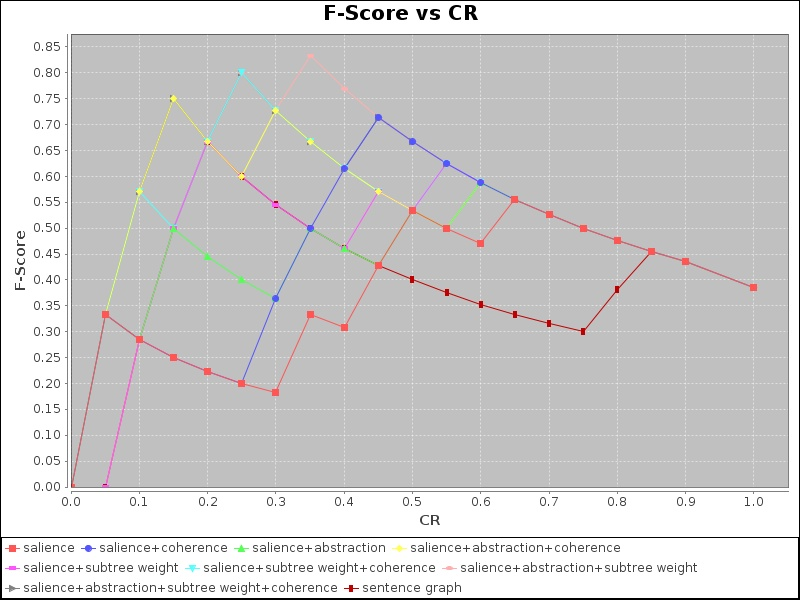
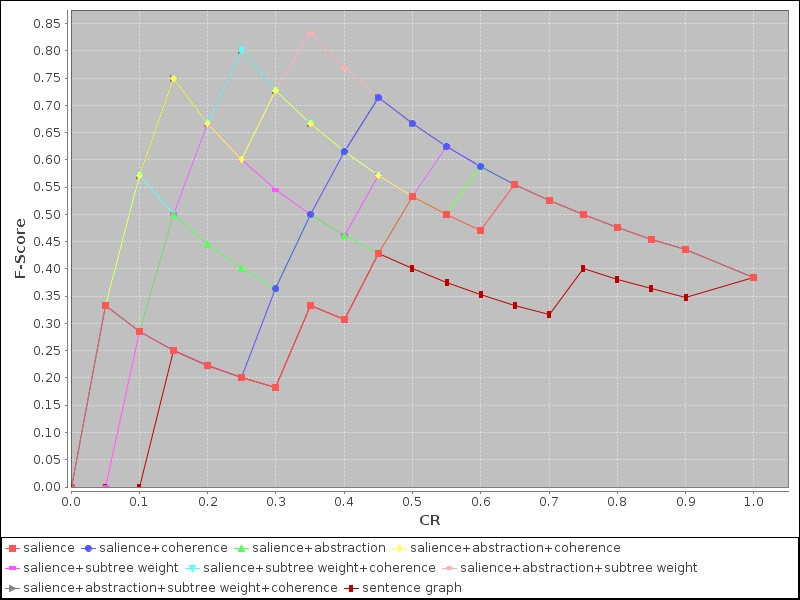
new graphs

diff --git a/OntologySummarization/src/fr/inria/wimmics/explanation/evaluation/test/DCGSurveyInference1Test.java b/OntologySummarization/src/fr/inria/wimmics/explanation/evaluation/test/DCGSurveyInference1Test.java
@@ -64,6 +64,7 @@ public class DCGSurveyInference1Test {
 	static String SIMILARITY_CONCEPT = "http://dbpedia.org/ontology/Event";
 	static String DBPEDIA_SCHEMA_LOCATION = "rdf/ontology/dbpedia_3.8.owl";
 	static String GEONAMES_SCHEMA_LOCATION = "rdf/ontology/geonames_ontology_v3.1.rdf";
+	static double SG_Nagivational_p = 0.8;
 	
 	
 	//Scoresalience : SSL Scoresimilarity : SSM Scoresubtree: SST ScoreAbstraction: SAB ReRank by coherence: SCO
@@ -233,7 +234,7 @@ public class DCGSurveyInference1Test {
 		
 		
 		// Generate the ndcg vs cr graph
-		JFreeChart chart = ChartFactory.createXYLineChart("nDCG vs CR",
+		JFreeChart chart = ChartFactory.createXYLineChart("",
 				// Title
 				"CR",
 				// x-axis Label
@@ -292,7 +293,7 @@ public class DCGSurveyInference1Test {
 		
 		
 		// Generate the ndcg vs cr graph
-		JFreeChart fMeasureCRchart = ChartFactory.createXYLineChart("F-Score vs CR",
+		JFreeChart fMeasureCRchart = ChartFactory.createXYLineChart("",
 				// Title
 				"CR",
 				// x-axis Label
@@ -369,7 +370,7 @@ public class DCGSurveyInference1Test {
 		
 		// Generate the ndcg vs cr graph
 		
-		JFreeChart chart = ChartFactory.createXYLineChart("nDCG vs CR",
+		JFreeChart chart = ChartFactory.createXYLineChart("",
 				// Title
 				"CR",
 				// x-axis Label
@@ -446,7 +447,7 @@ public class DCGSurveyInference1Test {
 		
 		
 		// Generate the ndcg vs cr graph
-		JFreeChart fMeasureCRchart = ChartFactory.createXYLineChart("F-Score vs CR",
+		JFreeChart fMeasureCRchart = ChartFactory.createXYLineChart("",
 				// Title
 				"CR",
 				// x-axis Label
@@ -1066,7 +1067,7 @@ public class DCGSurveyInference1Test {
 			statementSet.add(st);
 		}
 		
-		RDFSentenceGraph rdfSentenceGraph = new RDFSentenceGraph(statementSet, 0.5);
+		RDFSentenceGraph rdfSentenceGraph = new RDFSentenceGraph(statementSet,SG_Nagivational_p);
 		
 
 		SentenceGraphSummarizer summmarizer = new SentenceGraphSummarizer(rdfSentenceGraph);

diff --git a/OntologySummarization/src/fr/inria/wimmics/algorithms/stdlib/CodeTest.java b/OntologySummarization/src/fr/inria/wimmics/algorithms/stdlib/CodeTest.java
@@ -1,0 +1,26 @@
+package fr.inria.wimmics.algorithms.stdlib;
+
+import java.awt.font.TextAttribute;
+import java.text.AttributedString;
+import java.text.CharacterIterator;
+
+public class CodeTest {
+	
+	
+	
+	public static void main(String[] args) {
+		
+		AttributedString as = new AttributedString("I love you 104 gazillion");
+		as.addAttribute(TextAttribute.SUPERSCRIPT, TextAttribute.SUPERSCRIPT_SUPER, 13, 14);
+		CharacterIterator i = as.getIterator();
+		char c;
+		StringBuffer sb = new StringBuffer();
+		while ((c = i.current()) != CharacterIterator.DONE) {
+		    sb.append(c);
+		    i.next();
+		}
+
+		System.out.println(sb.toString());
+	}
+
+}
